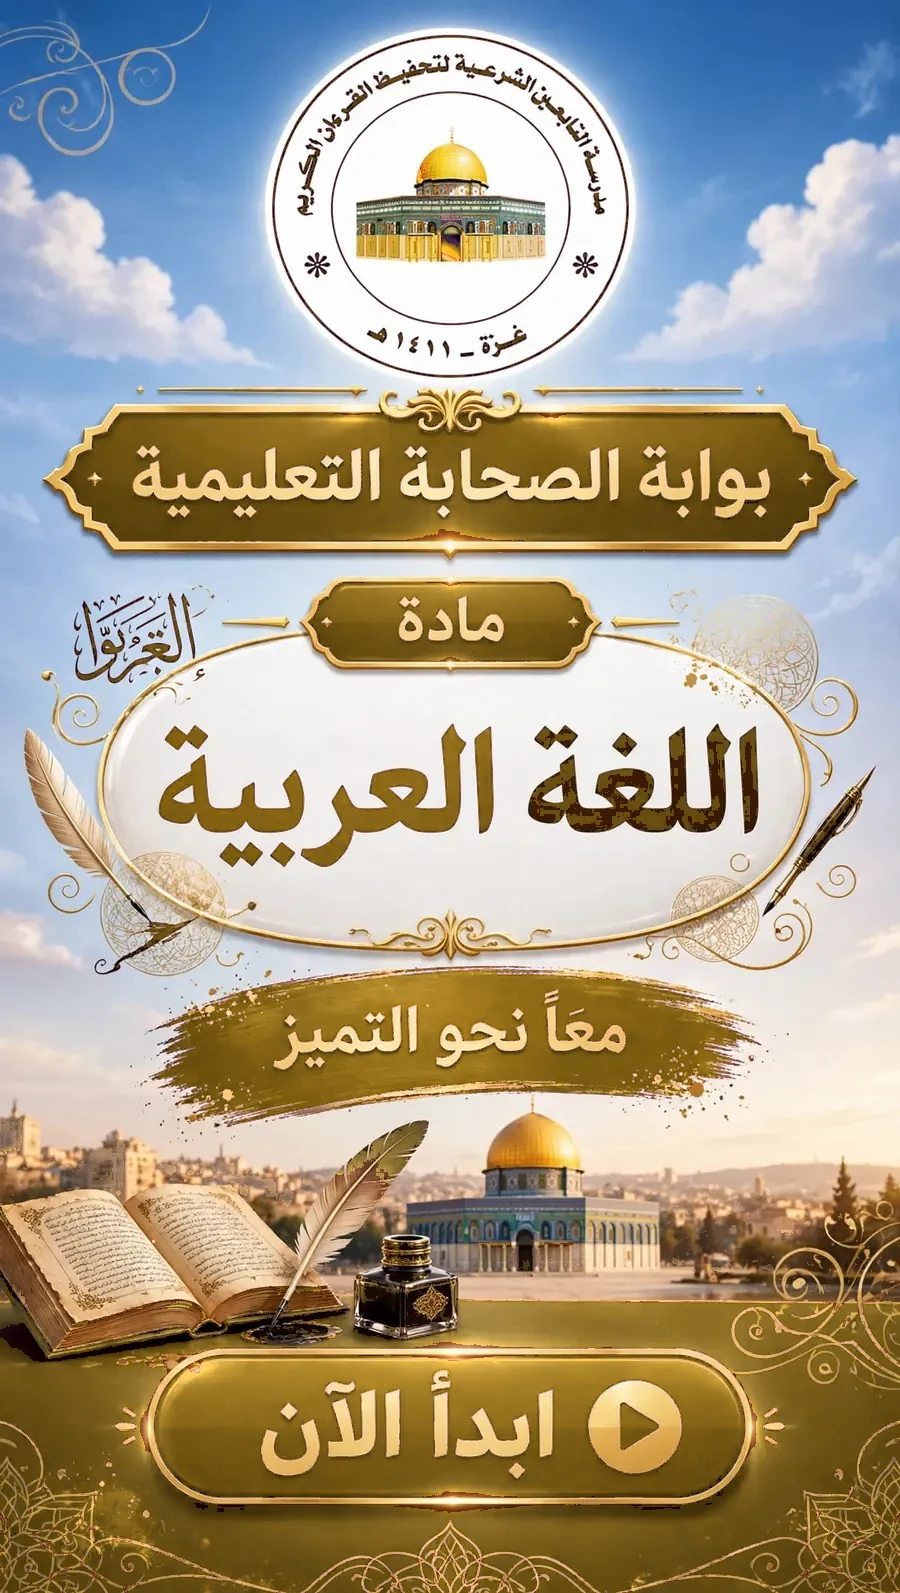
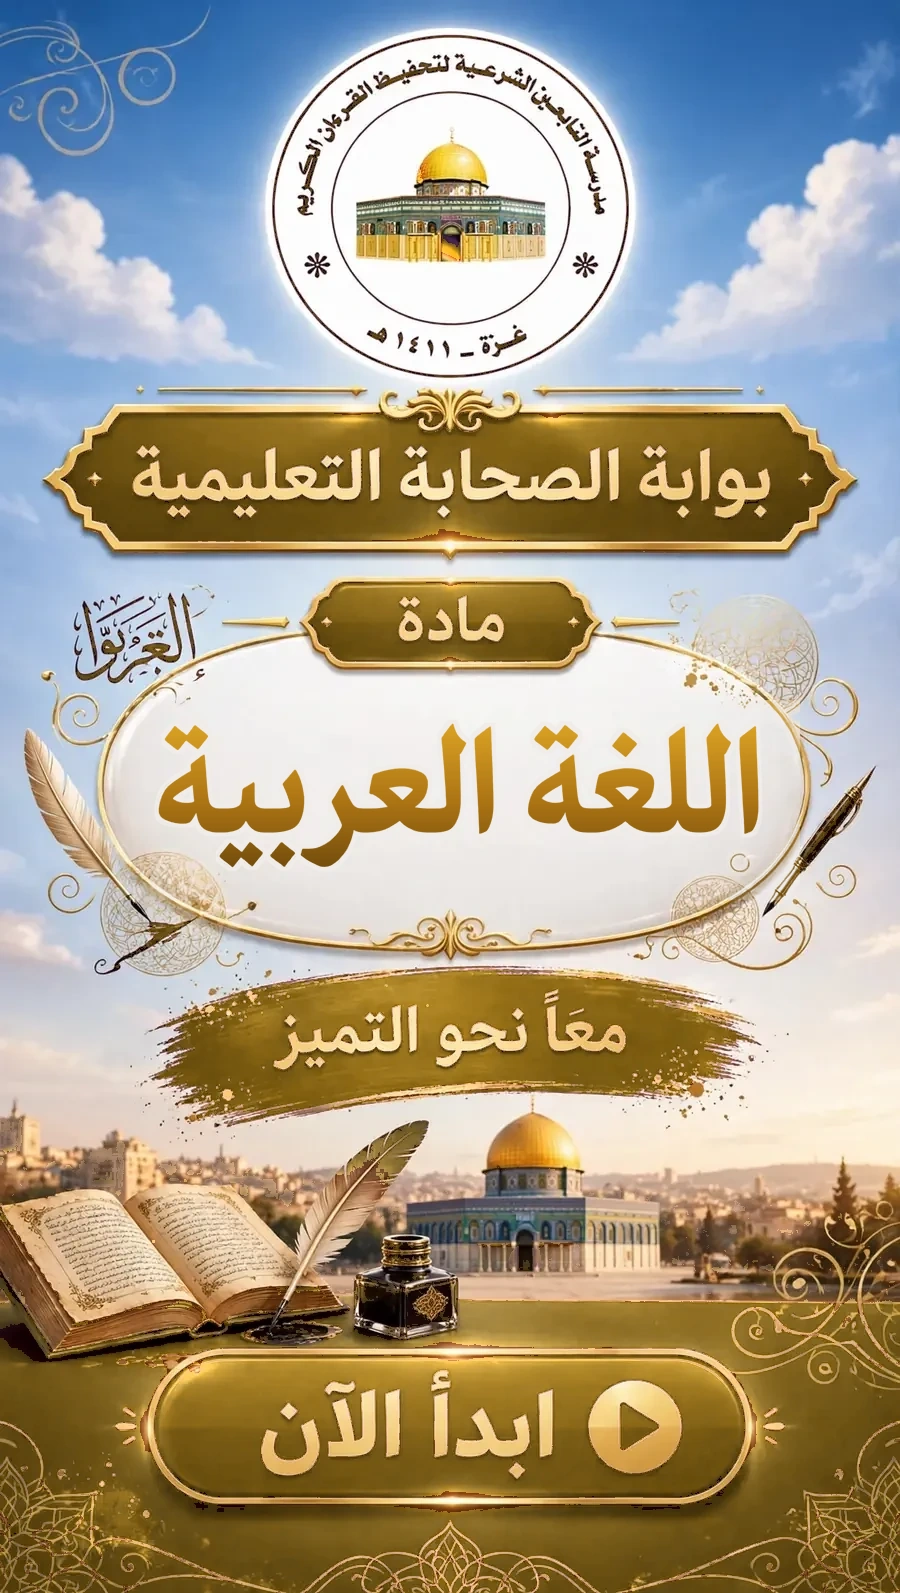
غلاف اللغة العربية: إعادة تلوين عنوان «اللغة العربية» بتدرّج ذهبي موحّد وناعم بدل الحروف المبقّعة
Claude-Session: https://claude.ai/code/session_016ZPsmfZTdz8sNqRUHnJcDD

diff --git a/sw.js b/sw.js
@@ -1,7 +1,7 @@
 /* عامل خدمة البوابة: تعمل قائمة الصفوف والمواد بلا إنترنت بعد أوّل فتح. يحذف ذاكرته وحدها (portal-).
    لا يتدخّل في صفحات التطبيقات: لكلّ تطبيقٍ عامل خدمته وذاكرته. */
 const P = "portal-";
-const V = P + "v14";
+const V = P + "v15";
 const CORE = ["./", "./index.html", "./manifest.webmanifest", "./shared/intro.js", "./shared/update-notify.js", "./shared/kinex.jpg", "./shared/covers/arabic.webp", "./shared/covers/islamic.webp", "./shared/icons/portal-192.png", "./shared/icons/portal-512.png", "./shared/icons/portal-180.png", "./subjects.json", "./shared/logo.webp", "./shared/fonts/IBMPlexSansArabic-Regular.ttf", "./shared/fonts/IBMPlexSansArabic-Bold.ttf", "./shared/fonts/aref-ruqaa-arabic-700.woff2",
   "./shared/grades/g1.webp", "./shared/grades/g2.webp", "./shared/grades/g3.webp", "./shared/grades/g4.webp", "./shared/grades/g5.webp", "./shared/grades/g6.webp", "./shared/grades/g7.webp", "./shared/grades/g8.webp", "./shared/grades/g9.webp", "./shared/grades/g10.webp",
   "./shared/subjects/english.webp", "./shared/subjects/arabic.webp", "./shared/subjects/math.webp", "./shared/subjects/science.webp", "./shared/subjects/islamic.webp", "./shared/subjects/physics.webp", "./shared/subjects/chemistry.webp", "./shared/subjects/biology.webp"];

diff --git a/arabic/10/sw.js b/arabic/10/sw.js
@@ -1,6 +1,6 @@
 /* عامل خدمة اللغة العربية (العاشر): يعمل التطبيق بعد أول زيارة حتى بلا إنترنت. يحذف ذاكرته وحدها (ara10-). */
 const P = "ara10-";
-const V = P + "v17";
+const V = P + "v18";
 const CORE = ["./", "./index.html", "./manifest.webmanifest", "./icon-192.png", "./icon-512.png", "./data/curriculum.js", "./data/dict.js", "./data/wisdom.js", "./data/quiz.js"];
 self.addEventListener("install", e => { e.waitUntil(caches.open(V).then(c => c.addAll(CORE)).then(() => self.skipWaiting())); });
 self.addEventListener("activate", e => { e.waitUntil(caches.keys().then(ks => Promise.all(ks.filter(k => k.startsWith(P) && k !== V).map(k => caches.delete(k)))).then(() => self.clients.claim())); });
